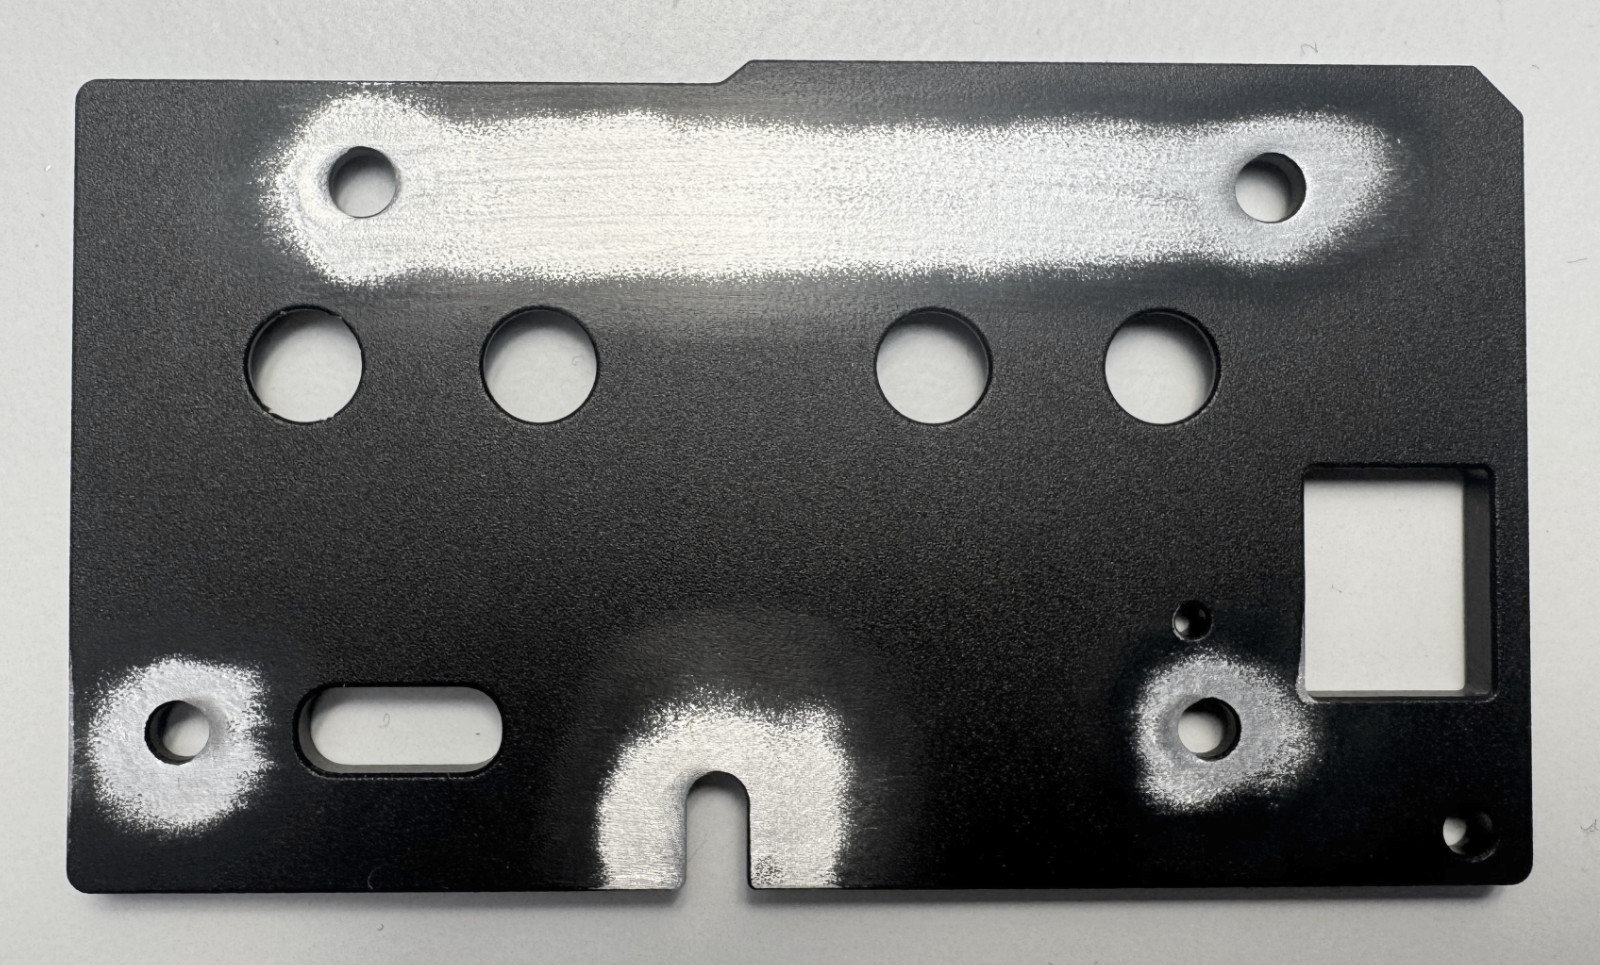
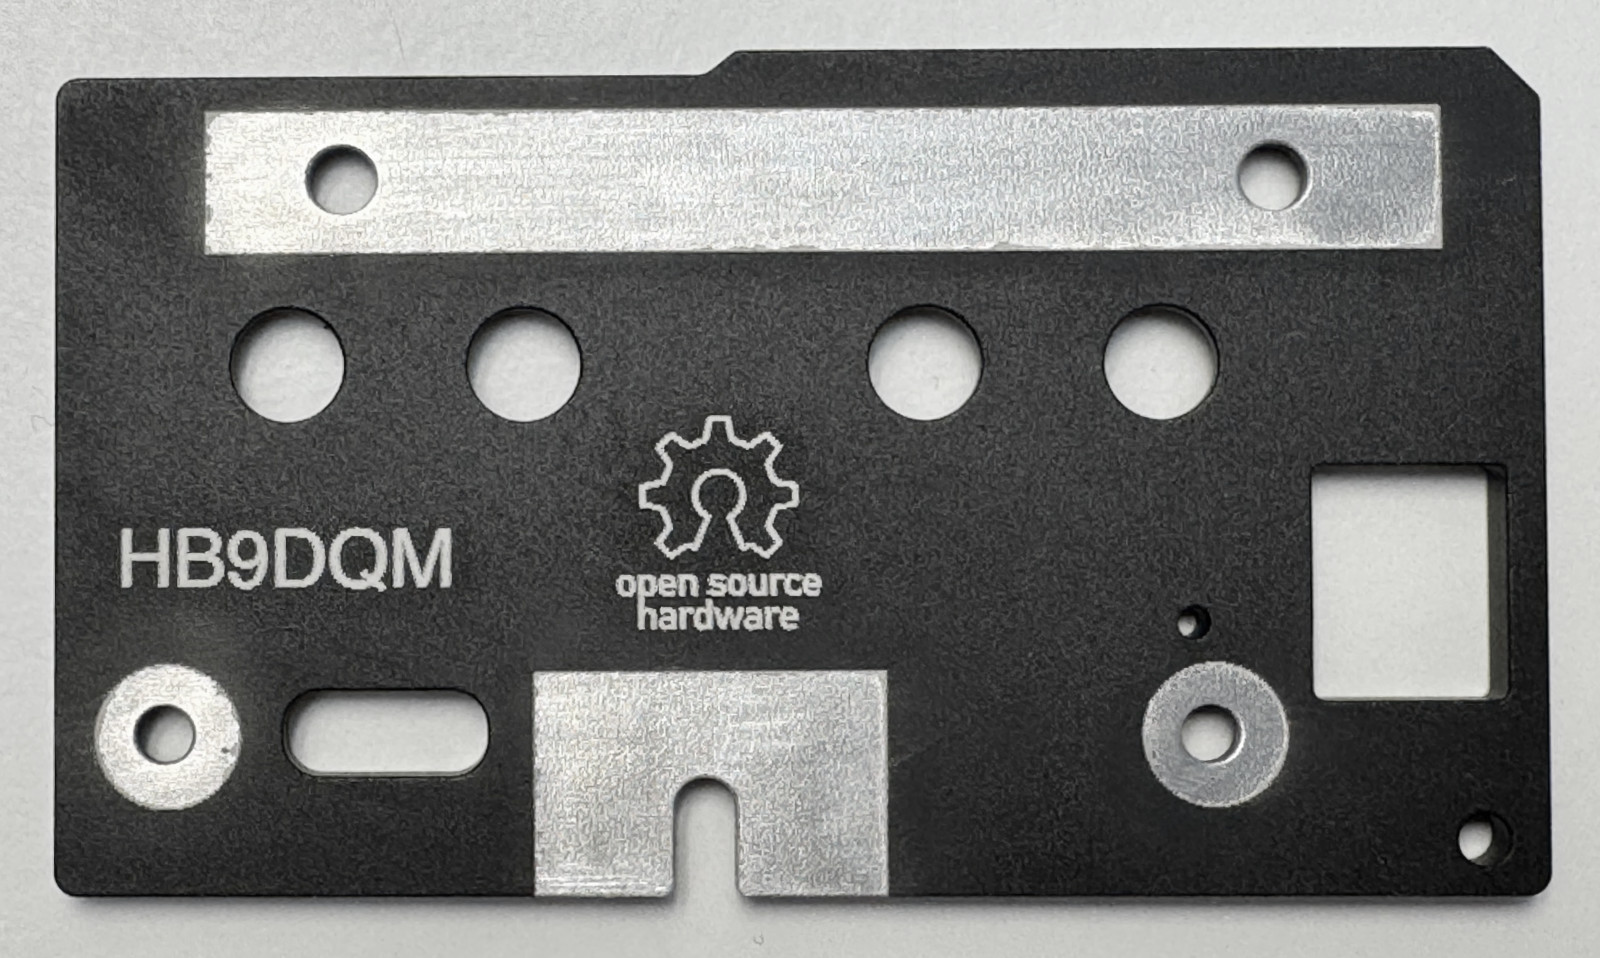
Replace photo of stripped side panel with nicer, lasered version

diff --git a/USER_GUIDE.md b/USER_GUIDE.md
@@ -82,8 +82,8 @@ See the [KXIBC2 installation guide](https://ftp.elecraft.com/KX2/Manuals%20Downl
 ### Preparing the side panel
 
 - Remove black coating from the back side to expose bare metal (where it contacts the KX2 chassis)
-- Remove coating around screw holes near USB-C and DC jack (for grounding via standoffs)
-- Use a Dremel or similar power tool (wear eye protection) for efficiency
+- Remove coating around screw holes near USB-C and DC jack for grounding via standoffs (**important!**)
+- Use a Dremel or similar power tool for efficiency (the one in the photo below has been done with a laser)
 
 <img src="/hardware/photos/side_panel_back_stripped.jpg" alt="Backside of side panel with coating stripped" width="500">
 
